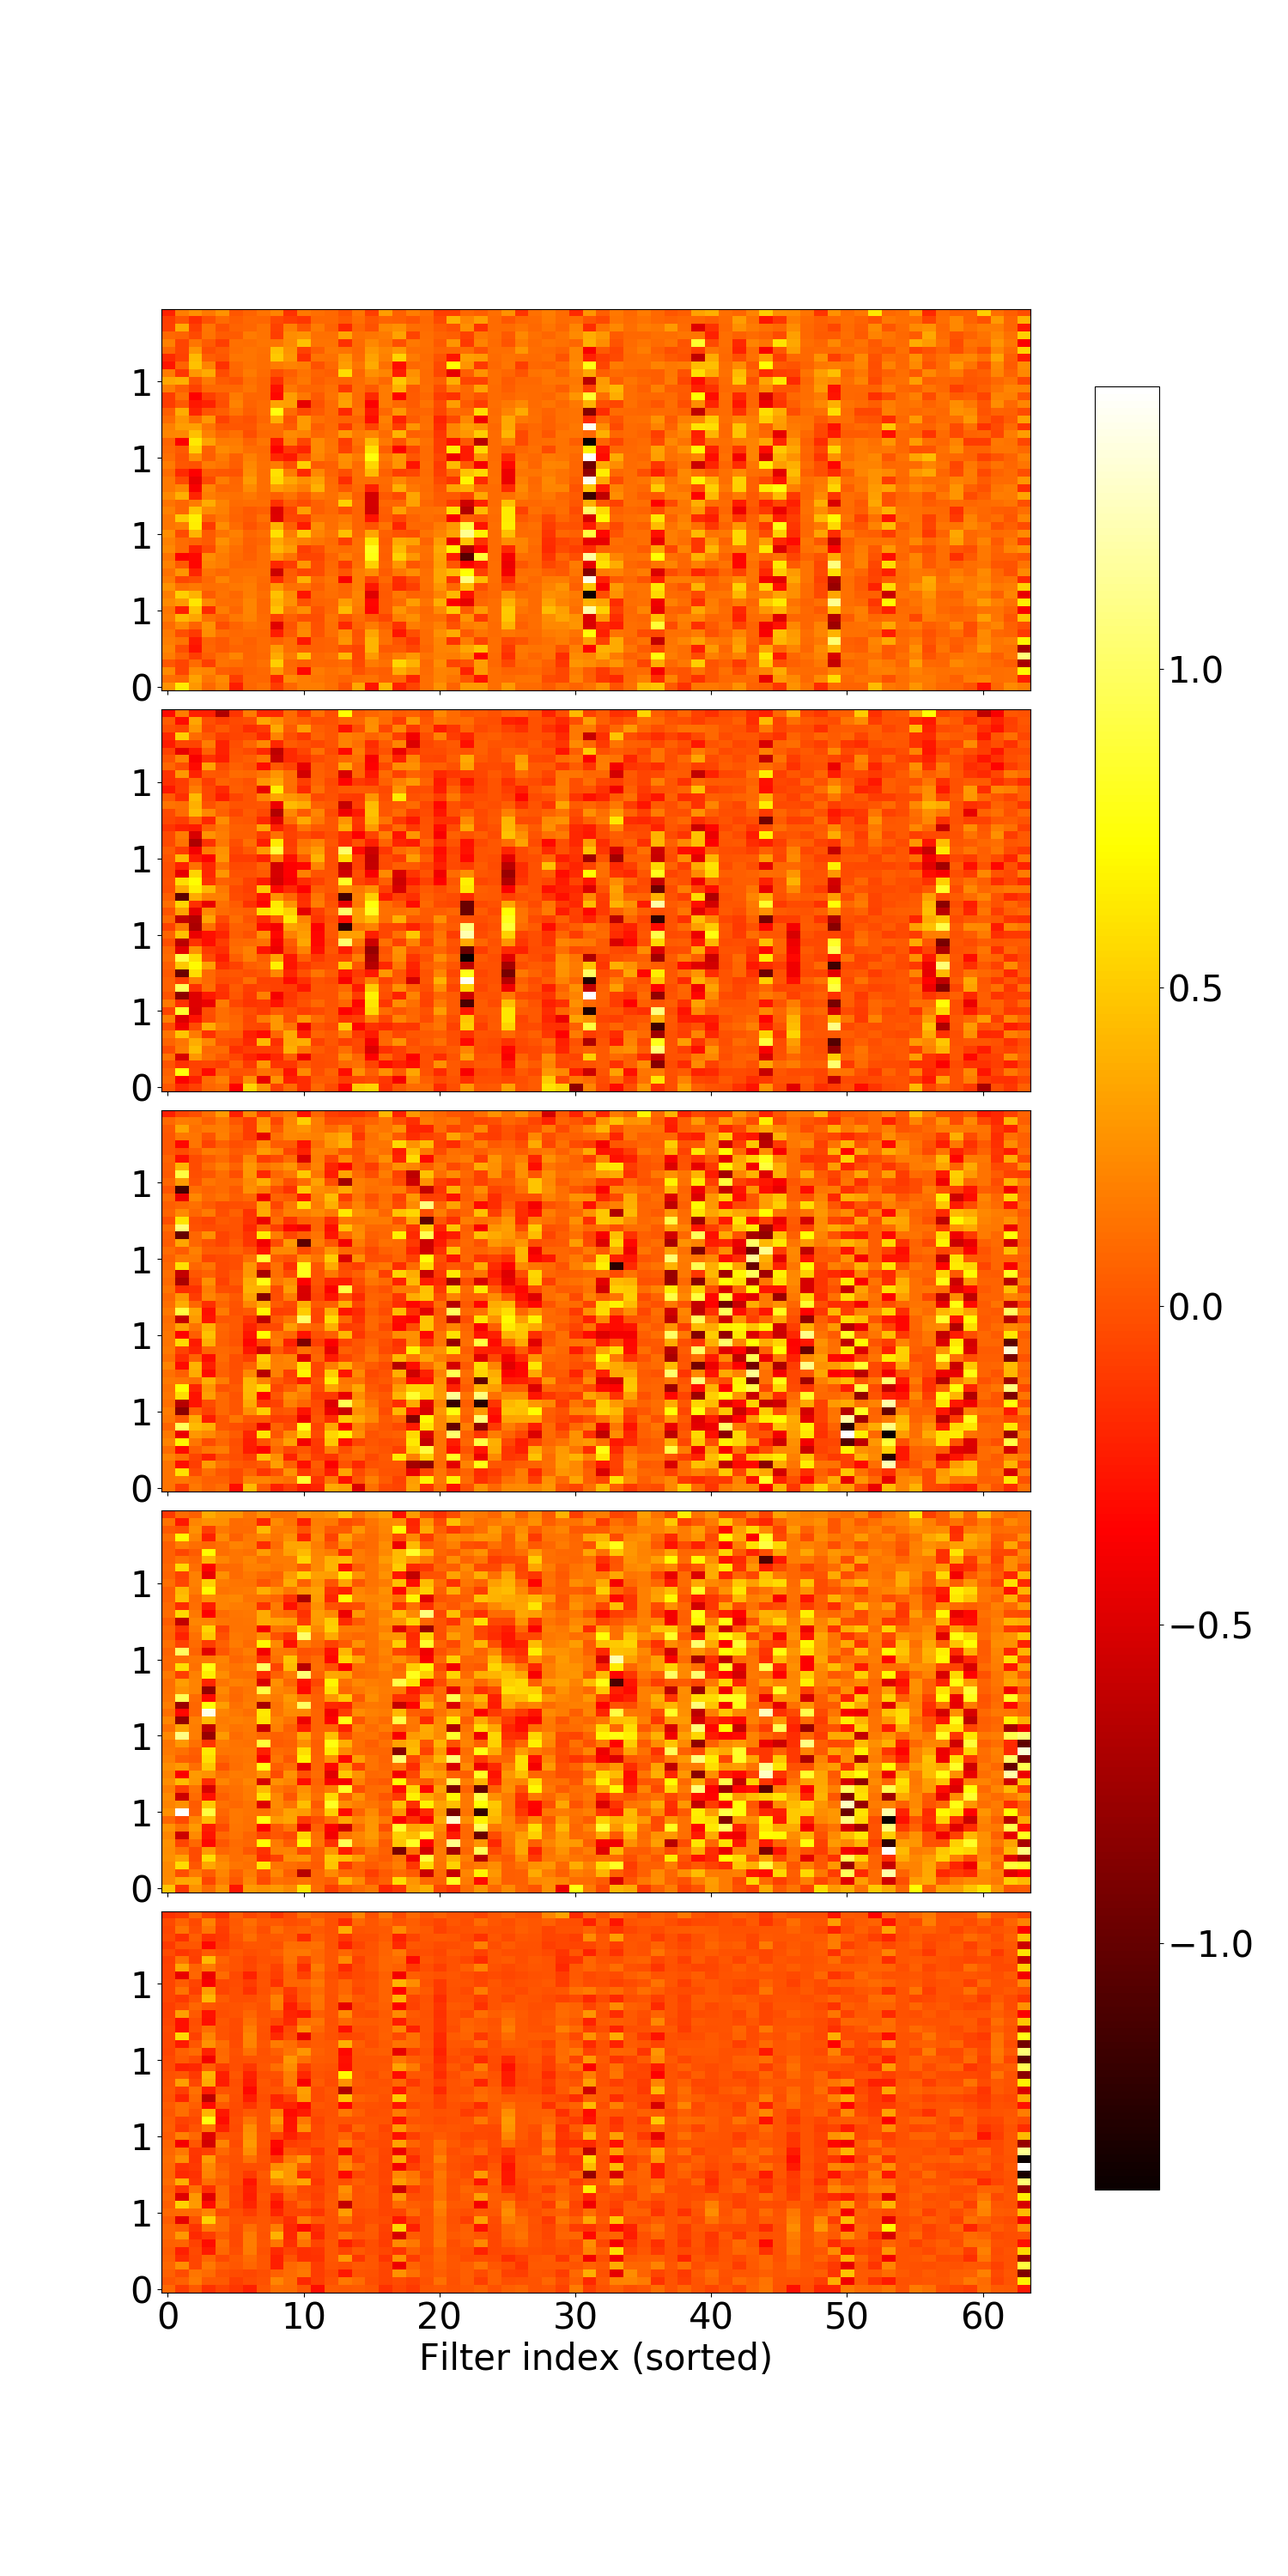
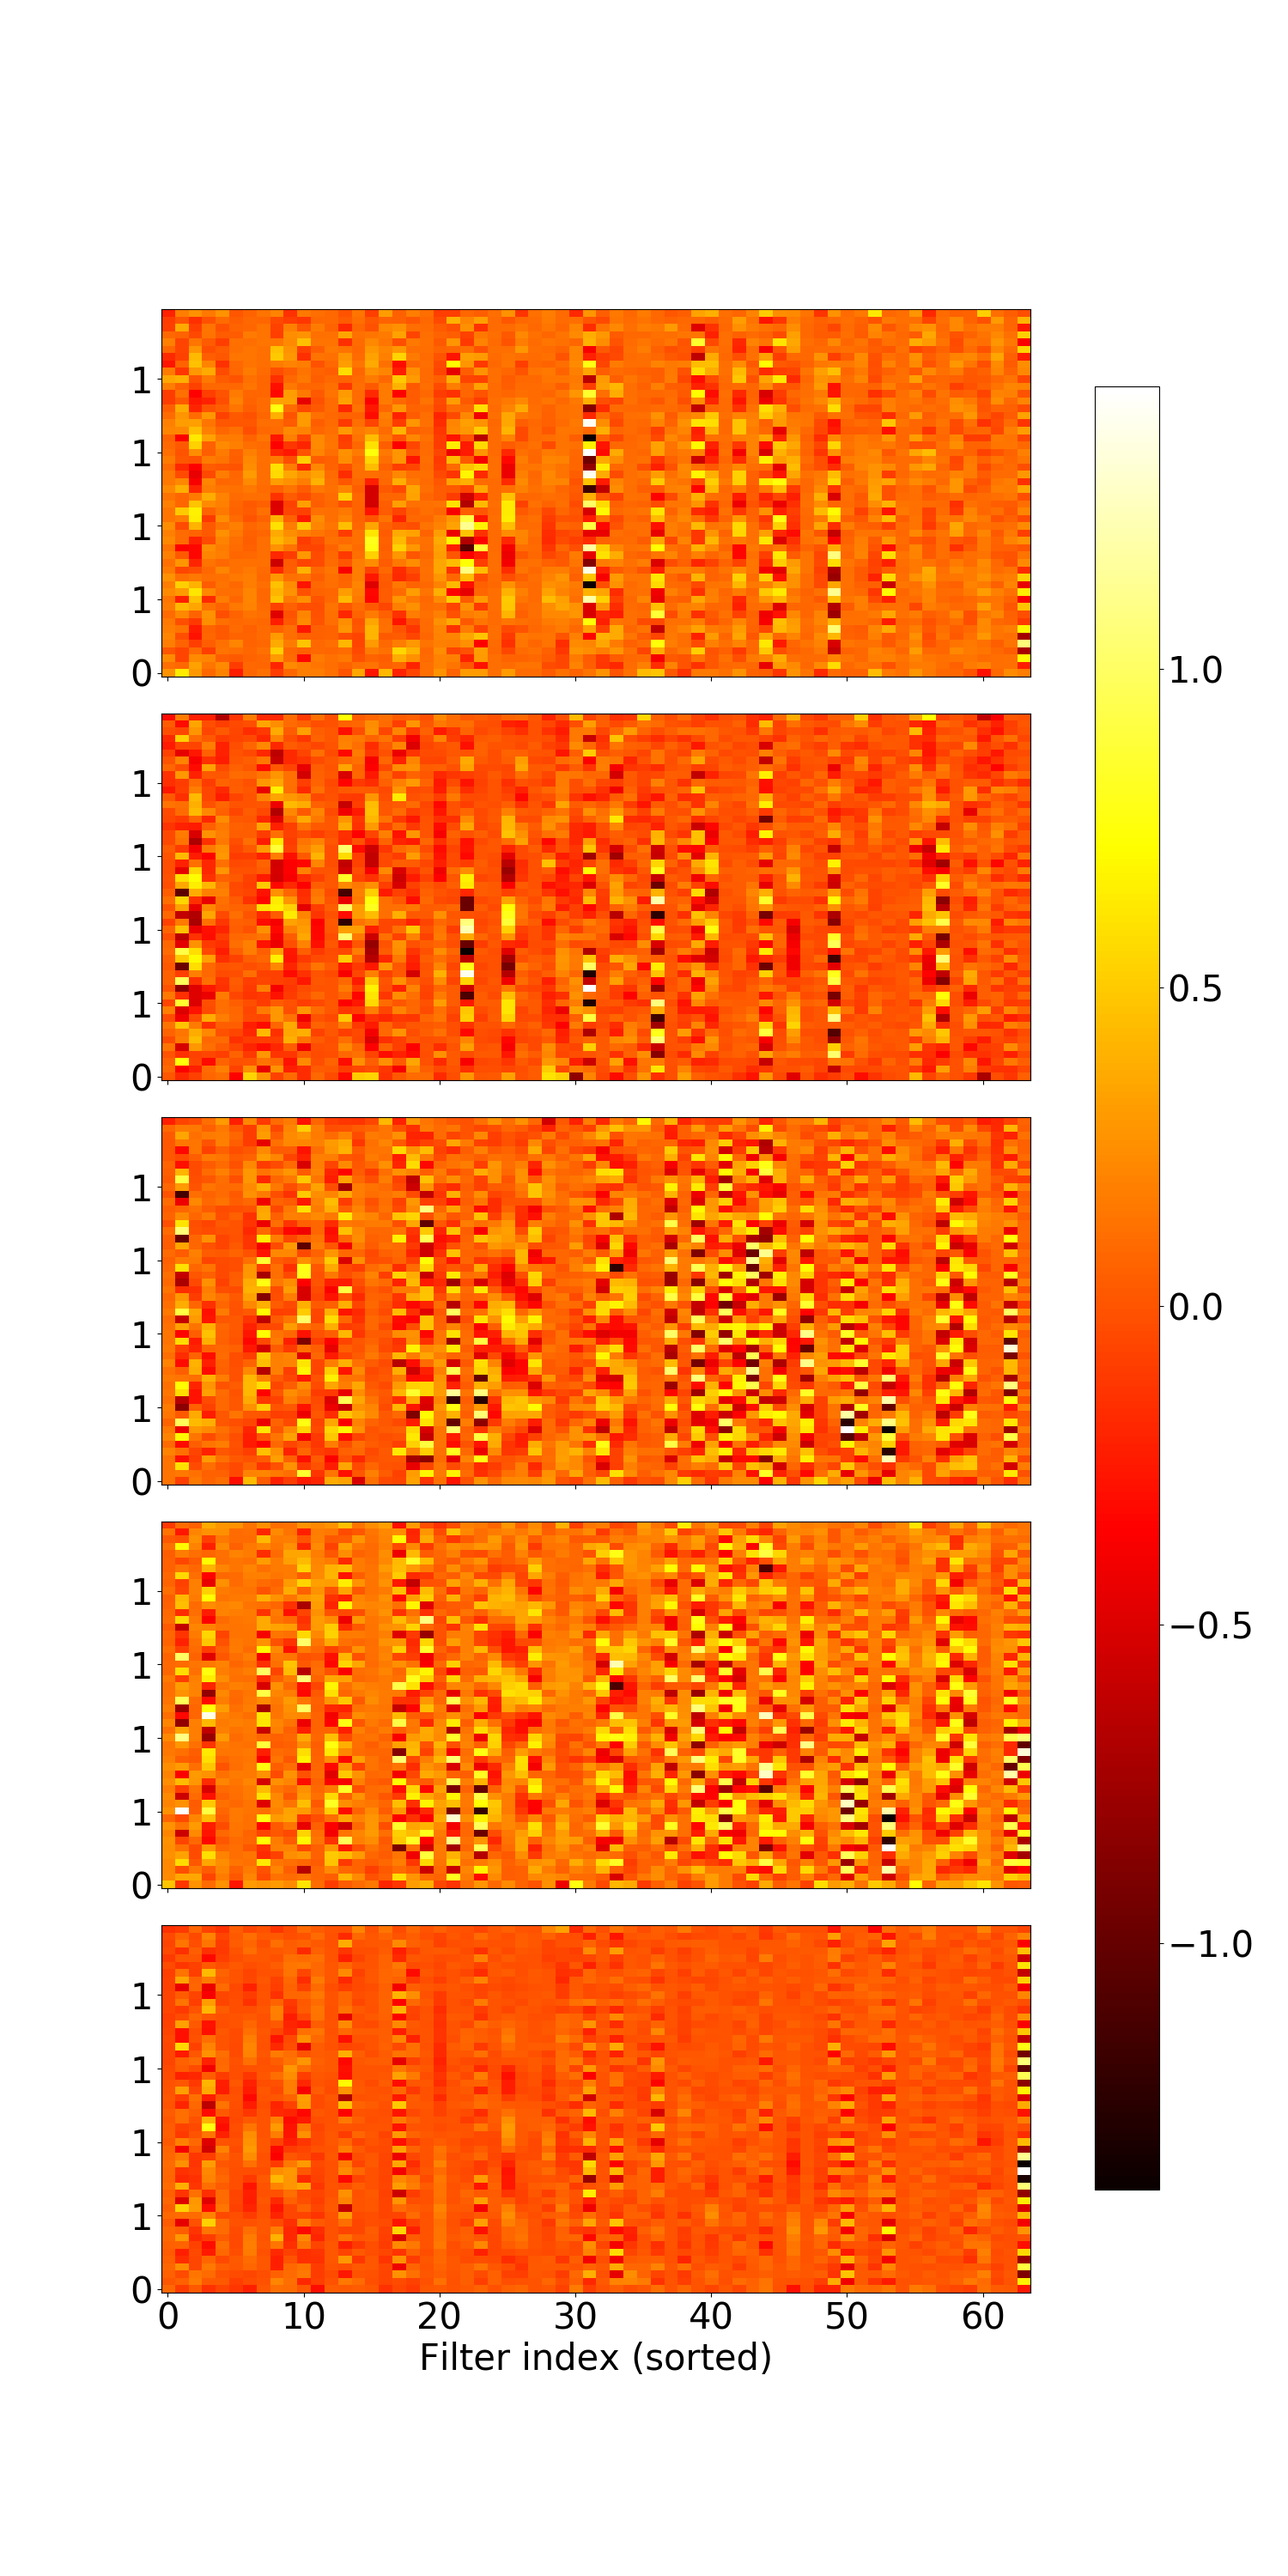
up

Changed region(s): [[0.092, 0.155, 0.7973, 0.496], [0.092, 0.527, 0.7973, 0.682], [0.1227, 0.713, 0.7973, 0.868]]

diff --git a/returnnTfNetworkLayerPlotter.py b/returnnTfNetworkLayerPlotter.py
@@ -532,7 +532,7 @@ class Plotter(object):
             axs[-1][epochRangeIdx].set_xlabel('Filter index (sorted)')
 #                axs[dimInputIdx][epochRangeIdx].set_xlabel('filterIdx_' + mode + '_for epoch' + '_' + '%03d' % (self.epochRangeToPlot[epochRangeIdx],))
 
-        fig.subplots_adjust(hspace=0.05)
+        fig.subplots_adjust(hspace=0.1)
         fig.subplots_adjust(right=0.8)
 #        plt.setp([a.get_xticklabels() for a in fig.axes[:-1]], visible=False)
 
